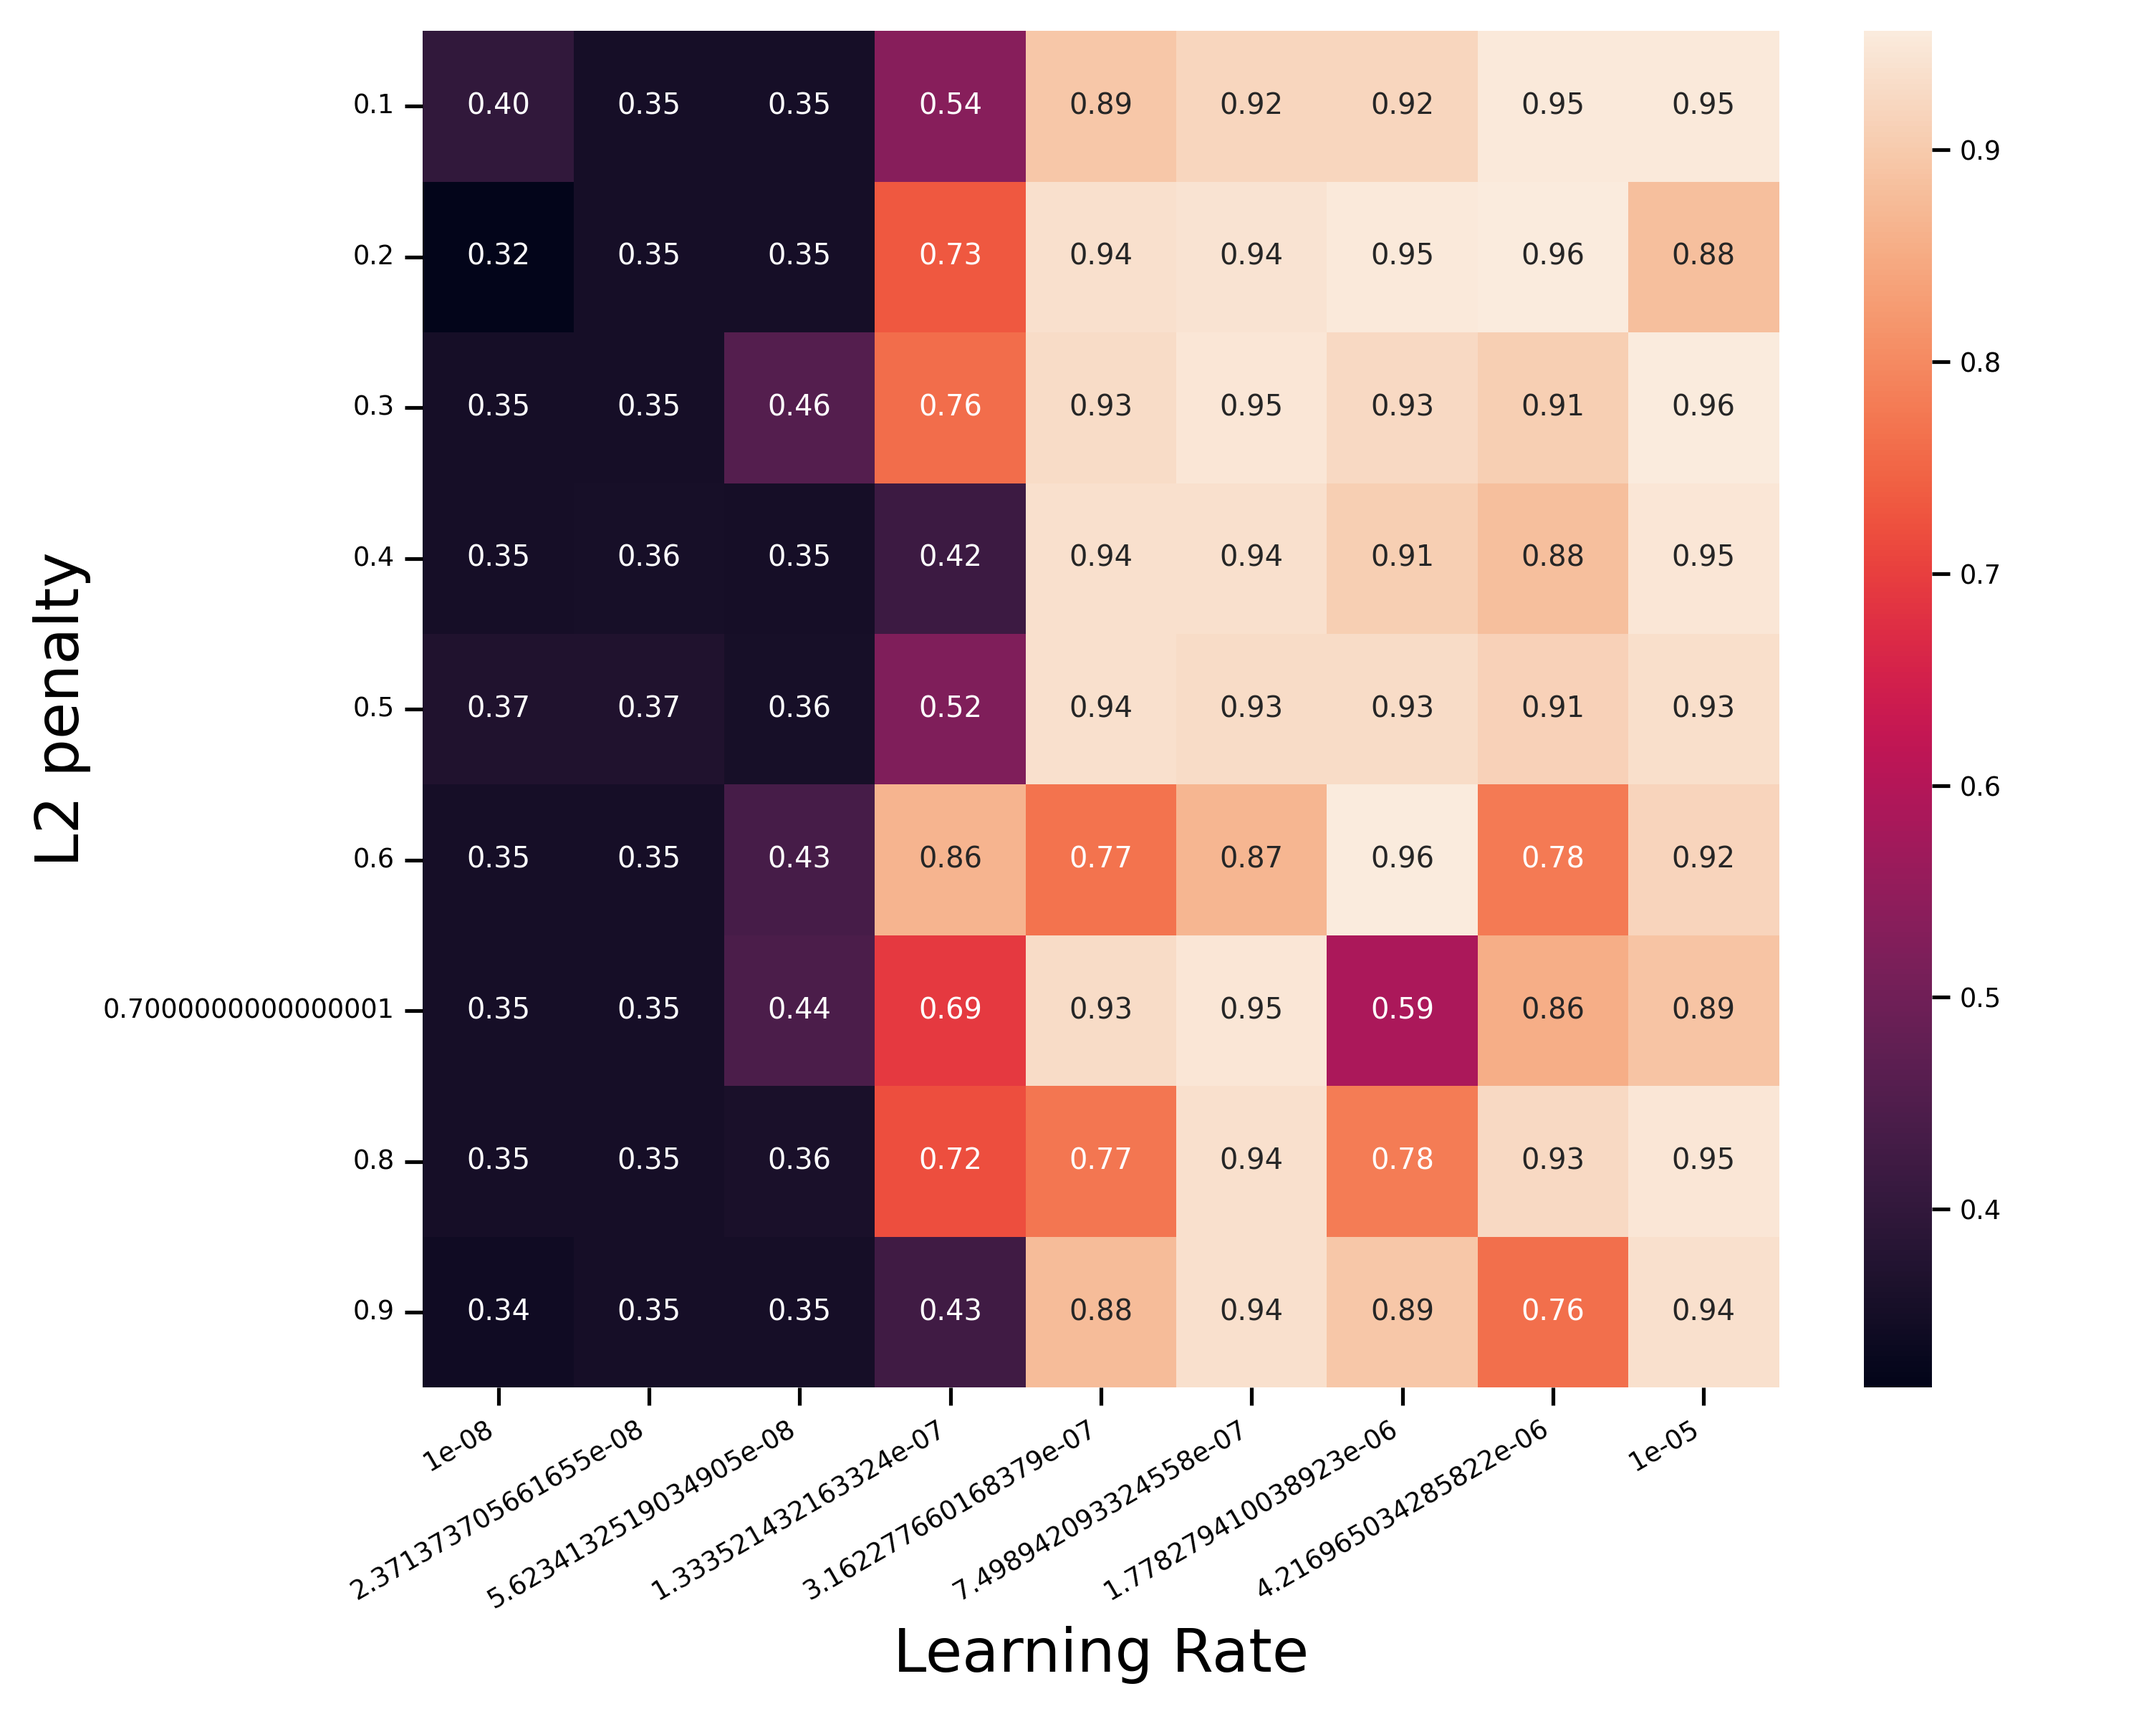
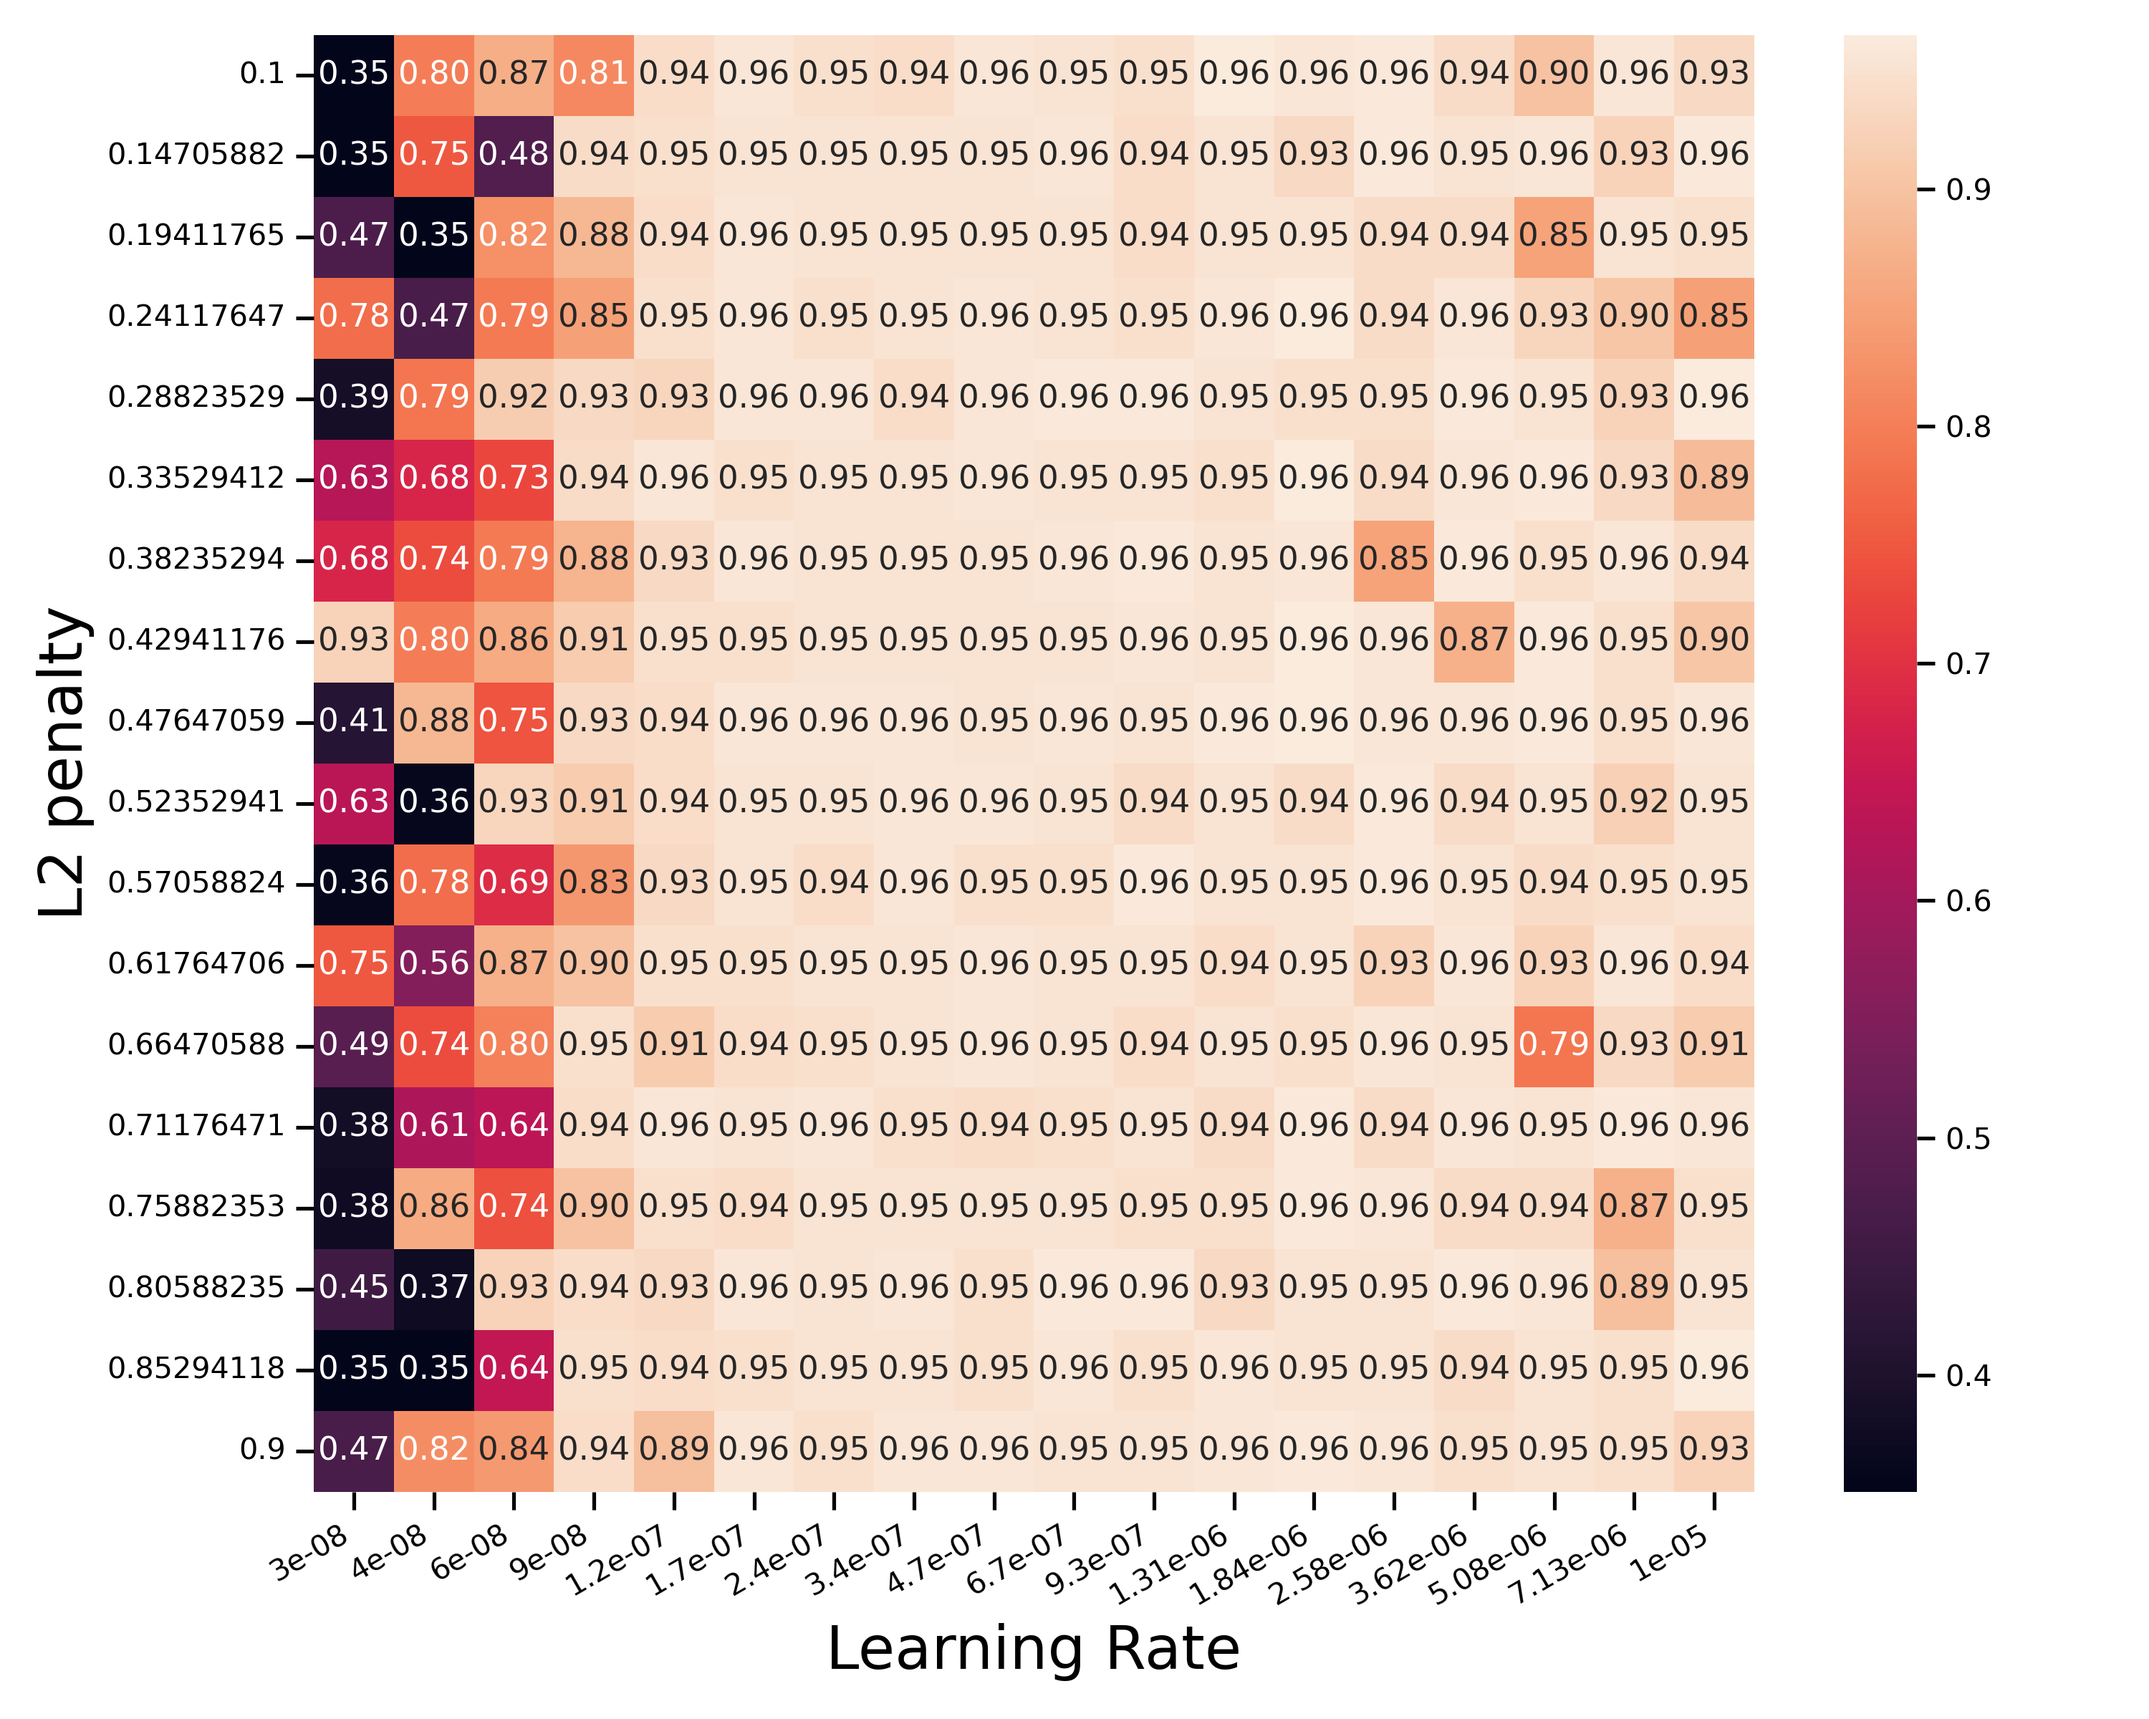
Final plot work

diff --git a/project_2/src/utils/plotting.py b/project_2/src/utils/plotting.py
@@ -16,9 +16,10 @@ def heat_plot(data, filename, title="Heatmap", cmap="viridis", colorbar=True, an
         colorbar (bool): Show color bar.
         annot (bool): Annotate cells with data values.
     """
-    sns.set_context("notebook", font_scale=1.4)
+    sns.set_context("notebook", font_scale=0.9)
     fig, ax = plt.subplots(figsize=(10, 8))
     # Create the heatmap
+    
     sns.heatmap(data, cmap=cmap, cbar=colorbar, annot=annot, fmt=".2f", ax=ax)
     # def format_func(value, tick_number):
     #     return f"{value:.3f}"
@@ -53,7 +54,7 @@ def loss_plot(data, filename, title="Loss Over Epochs", xlabel="Epochs", ylabel=
     n_cols = 3  
     n_rows = (n_configs + n_cols - 1) // n_cols  
 
-    fig, axes = plt.subplots(n_rows, n_cols, figsize=(15, n_rows * 4), sharey=True)
+    fig, axes = plt.subplots(n_rows, n_cols, figsize=(15, n_rows * 4), sharex='col',  sharey='row')
     axes = axes.flatten()  
 
     for idx, (lr, l2) in enumerate(unique_configs.values):
@@ -69,11 +70,17 @@ def loss_plot(data, filename, title="Loss Over Epochs", xlabel="Epochs", ylabel=
             ax=axes[idx]
         )
         
-        axes[idx].set_title(f"LR: {lr}, L2: {l2}", fontsize=13, fontweight='bold')
+        # axes[idx].set_title(f"LR: {lr}, L2: {l2}", fontsize=13, fontweight='bold')
+        axes[idx].text(0.9, 0.9, f"LR: {lr}, ", fontsize=13, fontweight='bold', ha='center', va='center', 
+        transform=axes[idx].transAxes, bbox=dict(facecolor='white', alpha=0.5, edgecolor='none'))
+        axes[idx].text(0.9, 0.8, f" L2: {l2}", fontsize=13, fontweight='bold', ha='center', va='center', 
+        transform=axes[idx].transAxes, bbox=dict(facecolor='white', alpha=0.5, edgecolor='none'))
         axes[idx].set_xlabel(xlabel,fontsize=13)
+        axes[idx].set_xscale('log')
+        axes[idx].set_yscale('log')
         axes[idx].set_ylabel(ylabel,fontsize=13)
 
-        axes[idx].legend(fontsize=0)
+        axes[idx].legend_.remove()
     handles, labels = axes[0].get_legend_handles_labels()
     fig.legend(handles, labels, loc='lower center', fontsize=13, ncol=3)
     
@@ -89,6 +96,8 @@ def loss_plot(data, filename, title="Loss Over Epochs", xlabel="Epochs", ylabel=
 plot_path = '/home/sigvar/1_semester/fysstk4155/fysstk_2/project_2/src/utils/'
 
 def activation_plot(data, filename, title="Loss Over Epochs", xlabel="Epochs", ylabel="Loss"):
+    sns.set_context("notebook", font_scale=2)
+
     plt.figure(figsize=(10, 8))
     sns.lineplot(
             data=data,
@@ -112,8 +121,8 @@ if __name__ == "__main__":
 
 
     data = pd.read_csv('/home/sigvar/1_semester/fysstk4155/fysstk_2/project_2/src/utils/results_regression.csv')
-    # torch=data[data['Model']=='PyTorch']
-    # loss_plot(torch, filename="torch_loss_plot", title="torch Training Loss Over Epochs", xlabel="Epochs", ylabel="Loss Value")
+    torch=data[data['Model']=='PyTorch']
+    loss_plot(torch, filename="torch_loss_plot", title="torch Training Loss Over Epochs", xlabel="Epochs", ylabel="Loss Value")
 
     NN = data[data['Model']=='Neural_Network']
     loss_plot(NN, filename="NN_loss_plot", title="NN Training Loss Over Epochs", xlabel="Epochs", ylabel="Loss Value")
@@ -124,6 +133,8 @@ if __name__ == "__main__":
     # heat = heat[heat['Optimizer']=='SGD']
     # heat = heat.sort_values(by=['Learning Rate', 'L2 Penalty'])
     # NN = heat[heat['Model']=='Neural_Network']
+    # NN['Learning Rate'] = NN['Learning Rate'].round(5)
+    # NN['L2 Penalty'] = NN['L2 Penalty'].round(5)
     # NN_heatmap_data = NN.pivot(index="L2 Penalty", columns="Learning Rate", values="Accuracy")
     # heat_plot(NN_heatmap_data, filename="NN_heatmap", title="NN Heatmap", cmap="rocket", annot=True)
 
@@ -131,6 +142,8 @@ if __name__ == "__main__":
     # heat = heat[heat['Optimizer']=='SGD']
     # heat = heat.sort_values(by=['Learning Rate', 'L2 Penalty'])
     # NN = heat[heat['Model']=='Neural_Network']
+    # NN['Learning Rate'] = NN['Learning Rate'].round(5)
+    # NN['L2 Penalty'] = NN['L2 Penalty'].round(5)
     # NN_heatmap_data = NN.pivot(index="L2 Penalty", columns="Learning Rate", values="Accuracy")
     # heat_plot(NN_heatmap_data, filename="NN_heatmap_2", title="NN Heatmap", cmap="rocket", annot=True)
 
@@ -138,22 +151,30 @@ if __name__ == "__main__":
     # heat = pd.read_csv('/home/sigvar/1_semester/fysstk4155/fysstk_2/project_2/src/utils/results_torch_classification.csv')
     # heat = heat[heat['Optimizer']=='SGD']
     # heat = heat.sort_values(by=['Learning Rate', 'L2 Penalty'])
-    # NN = heat[heat['Model']=='PyTorch']
-    # NN_heatmap_data = NN.pivot(index="L2 Penalty", columns="Learning Rate", values="Accuracy")
-    # heat_plot(NN_heatmap_data, filename="torch_heatmap", title="NN Heatmap", cmap="rocket", annot=True)
+    # torch = heat[heat['Model']=='PyTorch']
+    # # decimals = pd.Series([0, 1], index=['Learning Rate', 'L2 Penalty'])
+    # # torch = torch.round(decimals=decimals)
+    # torch['Learning Rate'] = torch['Learning Rate'].round(5)
+    # torch['L2 Penalty'] = torch['L2 Penalty'].round(5)
+    # torch_heatmap_data = torch.pivot(index="L2 Penalty", columns="Learning Rate", values="Accuracy")
+    # heat_plot(torch_heatmap_data, filename="torch_heatmap", title="torch Heatmap", cmap="rocket", annot=True)
 
     # heat = pd.read_csv('/home/sigvar/1_semester/fysstk4155/fysstk_2/project_2/src/utils/results_R_classification.csv')
     # heat = heat[heat['Optimizer']=='SGD']
     # heat = heat.sort_values(by=['Learning Rate', 'L2 Penalty'])
     # R = heat[heat['Model']=='Logistic_regression']
+    # R['Learning Rate'] = R['Learning Rate'].round(8)
+    # R['L2 Penalty'] = R['L2 Penalty'].round(8)
     # R_heatmap_data = R.pivot(index="L2 Penalty", columns="Learning Rate", values="Accuracy")
     # heat_plot(R_heatmap_data, filename="R_heatmap", title="R Heatmap", cmap="rocket", annot=True)
     
-    # heat = pd.read_csv('/home/sigvar/1_semester/fysstk4155/fysstk_2/project_2/src/utils/results_R_classification_long.csv')
-    # heat = heat[heat['Optimizer']=='SGD']
-    # heat = heat.sort_values(by=['Learning Rate', 'L2 Penalty'])
-    # R = heat[heat['Model']=='Logistic_regression']
-    # R_heatmap_data = R.pivot(index="L2 Penalty", columns="Learning Rate", values="Accuracy")
-    # heat_plot(R_heatmap_data, filename="R_heatmap_long", title="R Heatmap", cmap="rocket", annot=True)
+    heat = pd.read_csv('/home/sigvar/1_semester/fysstk4155/fysstk_2/project_2/src/utils/results_R_classification_long.csv')
+    heat = heat[heat['Optimizer']=='SGD']
+    heat = heat.sort_values(by=['Learning Rate', 'L2 Penalty'])
+    R = heat[heat['Model']=='Logistic_regression']
+    R['Learning Rate'] = R['Learning Rate'].round(8)
+    R['L2 Penalty'] = R['L2 Penalty'].round(8)
+    R_heatmap_data = R.pivot(index="L2 Penalty", columns="Learning Rate", values="Accuracy")
+    heat_plot(R_heatmap_data, filename="R_heatmap_long", title="R Heatmap", cmap="rocket", annot=True)
 
     print("Plots saved as 'NN_loss_plot.png' and 'R_loss_plot.png'")
